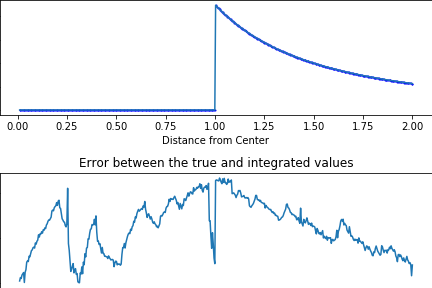
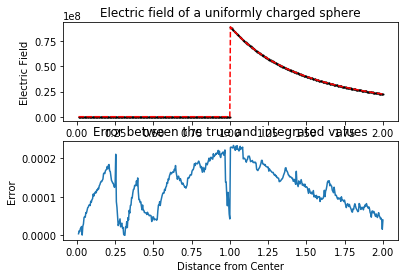
Add files via upload

Changed region(s): [[0.0, 0.0, 1.0, 1.0], [0.4412, 0.9496, 0.7059, 0.9784], [0.0294, 0.1151, 0.1765, 0.2302]]

diff --git a/ProblemSet1/Problem3.py b/ProblemSet1/Problem3.py
@@ -1,0 +1,69 @@
+# Problem 3:
+import numpy as np
+import matplotlib.pyplot as plt
+
+ncall = 3 # Number of integration calls
+ncall_saved = 0 # Number of call saved instead of doing lazy integration
+
+def var_step_siz_integrate(fun, a, b, tol): # manager
+
+    x_mid = (a+b)/2.0
+    f, err = integrator(fun, a, x_mid, b, fun(a), fun(x_mid), fun(b), tol)
+    # print(f, err, ncall)
+    return f, err
+
+def integrator(fun, x0, x2, x4, y0, y2, y4, tol):
+    global ncall
+    global ncall_saved
+    
+    x_range = x4 - x0
+    
+    # Non-limit points, x2 given
+    x1 = x0 + x_range/4.0
+    x3 = x4 - x_range/4.0
+    y1 = fun(x1)
+    y3 = fun(x3)
+    
+    ncall += 2
+    ncall_saved += 3
+    
+    f1 = (y0 + 4*y2 + y4)*(x_range)/6.0 # Simpson's: O(dx^5f^4)
+    f2 = (y0 + 4*y1 + 2*y2 + 4*y3 + y4)*(x_range)/12.0 # Simpsons's: O(dx^7f^6)
+    err = np.abs(f2 - f1)
+    
+    if (err<tol):
+        return f2, err
+    
+    else:
+        l_integral, l_err = integrator(fun, x0, x1, x2, y0, y1, y2, tol/2.0)
+        r_integral, r_err = integrator(fun, x2, x3, x4, y2, y3, y4, tol/2.0)
+        
+        integral = l_integral + r_integral
+        err = l_err + r_err
+        return integral, err
+
+# test functions
+def fun1(x):
+    return 1.0/(1.0+x**2)
+
+def fun2(x):
+    return np.sin(x)
+
+def fun3(x): # example that fails
+    return np.sin(1.0/x)
+
+fun1_val, fun1_err = var_step_siz_integrate(fun1, -1, 1, 10e-6)
+fun1_ncall = ncall
+fun1_ncall_saved = ncall_saved
+
+fun2_val, fun2_err = var_step_siz_integrate(fun2, -1, 1, 10e-6)
+fun2_ncall = ncall
+fun2_ncall_saved = ncall_saved
+
+print('f(x)=1/(1+x^2), -1<x<1:\n')
+print('Value: ' + str(fun1_val) + ' , Error: ' + str(fun1_err) + '\n')
+print('Number of calls: ' + str(fun1_ncall) + ', Number of calls saved from the lazy integration: ' + str(fun1_ncall_saved) + '\n\n')
+
+print('f(x)=sin(x), -1<x<1:\n')
+print('Value: ' + str(fun2_val) + ' , Error: ' + str(fun2_err) + '\n')
+print('Number of calls: ' + str(fun2_ncall) + ', Number of calls saved from the lazy integration: ' + str(fun2_ncall_saved) + '\n\n')

diff --git a/ProblemSet1/Problem4_1.py b/ProblemSet1/Problem4_1.py
@@ -1,0 +1,62 @@
+# Problem 4:
+from scipy import integrate
+import sys
+
+e0 = 8.854e-10 # Permittivity
+R = 1.0 # Sphere radius
+Q = 1.0 # Total Charge
+o = Q/(4.0*np.pi*R**2) # Area charge density
+z = 2.0 # Sphere distance
+factor = o*R/2/e0 # In front of the integral
+tol = 10e-3 # Tolerance
+
+l_bound = 0.5*np.pi
+u_bound = -0.5*np.pi
+def fun_toIntegrate(t):
+    top = np.cos(t)*(R*np.sin(t)-z) #R*np.sin(t)-z
+    bot = ((z-R*np.sin(t))**2 + (R*np.cos(t))**2)**1.5
+    return factor*top/bot
+
+def true_value(z):
+        if (z>R):
+            return Q/(4*np.pi*e0*z**2)
+        else:
+            return 0
+
+num_x = 500
+x_vals = np.linspace(10e-3, R+1, num_x)
+f_vals = np.zeros(num_x)
+f_errs = np.zeros(num_x)
+
+sys.setrecursionlimit(3000)
+for i in range (len(x_vals)):
+    z = x_vals[i]
+    val_tmp, err_tmp = var_step_siz_integrate(fun_toIntegrate, l_bound, u_bound, tol)
+    f_vals[i] = val_tmp
+    f_errs[i] = err_tmp
+
+plt.clf()
+
+ax1=plt.subplot(211)
+plt.plot(x_vals, f_vals, 'ko', markersize=1)
+plt.title("Electric field of a uniformly charged sphere")
+plt.xlabel('Distance from Center')
+plt.ylabel('Electric Field')
+
+# True function
+y_true = np.zeros(num_x)
+for i in range(len(x_vals)):
+    y_true[i] = true_value(x_vals[i])
+
+plt.plot(x_vals, y_true, 'r--')
+
+
+ax2=plt.subplot(212, sharex=ax1)
+plt.plot(x_vals, np.abs(y_true - f_vals))
+plt.title('Error between the true and integrated values')
+plt.xlabel('Distance from Center')
+plt.ylabel('Error')
+
+plt.savefig('images\ElectricFieldSphere', bbox_inches="tight")
+plt.tight_layout()
+plt.show()

diff --git a/ProblemSet1/Problem1.py b/ProblemSet1/Problem1.py
@@ -1,0 +1,62 @@
+# Problem 1:
+import numpy as np
+import matplotlib.pyplot as plt
+
+def fourptsderiv(x, dx, fun):
+    return (8*(fun(x+dx)-fun(x-dx))-(fun(x+2*dx)-fun(x-2*dx)))/(12*dx) # + O(dx^4f^(4)(x))
+
+# Test functions with true derivatives
+f1 = np.exp
+df1 = np.exp
+def f2(x):
+    return np.exp(0.01*x)
+def df2(x):
+    return 0.01*np.exp(0.01*x)
+
+def derivative_err_dx(x, fun, dfun): # Derivative error as a function of dx
+    num_tests = 1000
+    err_list = np.zeros(num_tests)
+    dx_list = np.linspace(1, 10e-16, num_tests)
+    for n in range (len(dx_list)):
+        err_list[n] = np.abs(x - fourptsderiv(x, dx_list[n], dfun))
+    
+    return dx_list, err_list
+
+
+plt.clf()
+plt.figure()
+
+dx_list, err_list = derivative_err_dx(1, f1, df1)
+plt.subplot(221)
+plt.plot(dx_list, err_list)
+plt.xlabel('dx')
+plt.ylabel('error')
+plt.xlim(left=0, right=1)
+plt.title('f=exp(x) derivative error')
+
+plt.subplot(222)
+plt.plot(dx_list, err_list)
+plt.xlabel('dx')
+plt.ylabel('error')
+plt.xlim(left=0, right=0.005)
+plt.title('f=exp(x) floating point error')
+
+dx_list, err_list = derivative_err_dx(1, f2, df2)
+plt.subplot(223)
+plt.plot(dx_list, err_list)
+plt.xlabel('dx')
+plt.ylabel('error')
+plt.xlim(left=0, right=1)
+plt.title('f=exp(0.01x) derivative error')
+
+plt.subplot(224)
+plt.plot(dx_list, err_list)
+plt.xlabel('dx')
+plt.ylabel('error')
+plt.xlim(left=0, right=0.005)
+plt.title('f=exp(0.01x) floating point error')
+
+plt.tight_layout()
+
+plt.savefig("images\Derivative_Error.png")
+plt.show()

diff --git a/ProblemSet1/Problem2.py b/ProblemSet1/Problem2.py
@@ -1,0 +1,22 @@
+# Problem 2:
+import numpy as np
+import matplotlib.pyplot as plt
+from scipy import interpolate
+
+diodes = np.transpose(np.loadtxt('lakeshore.txt'))
+
+plt.clf()
+plt.plot(diodes[1], diodes[0], 'ro', markersize=2, label="Lakeshore Data")
+plt.xlabel('Voltage (V)')
+plt.ylabel('Temperature (K)')
+
+# Neighbours cubic spline
+cubic_spline = interpolate.interp1d(diodes[1], diodes[0], kind='cubic')
+x_spline = np.linspace(diodes[1,0],diodes[1,len(diodes[1])-1],1000)
+y_spline = cubic_spline(x_spline)
+plt.plot(x_spline, y_spline, 'g-', label="Cubic Spline")
+plt.title("Lakeshore Diodes Voltage to Temperature")
+plt.legend()
+
+plt.savefig('LakeShore_Interpolated_VoltageToTemp')
+plt.show()

diff --git a/ProblemSet1/Problem4_2.py b/ProblemSet1/Problem4_2.py
@@ -1,0 +1,17 @@
+num_x = 99
+x_vals = np.linspace(0, R+1, num_x)
+f_vals = np.zeros(num_x)
+
+for i in range (len(x_vals)):
+    z = x_vals[i]
+    f1, f2 = integrate.quad(fun_toIntegrate, l_bound, u_bound)
+    f_vals[i] = f1
+    
+plt.plot(x_vals, f_vals, 'bo', markersize=2)
+plt.title('Electric field of a uniformly charged sphere using scipy.integrate.quad', y=1.1)
+plt.xlabel('Distance from Center')
+plt.ylabel('Electric Field')
+
+plt.savefig('images\ElectrifieldSphereScipyQuad', bbox_inches="tight")
+plt.tight_layout()
+plt.show()
